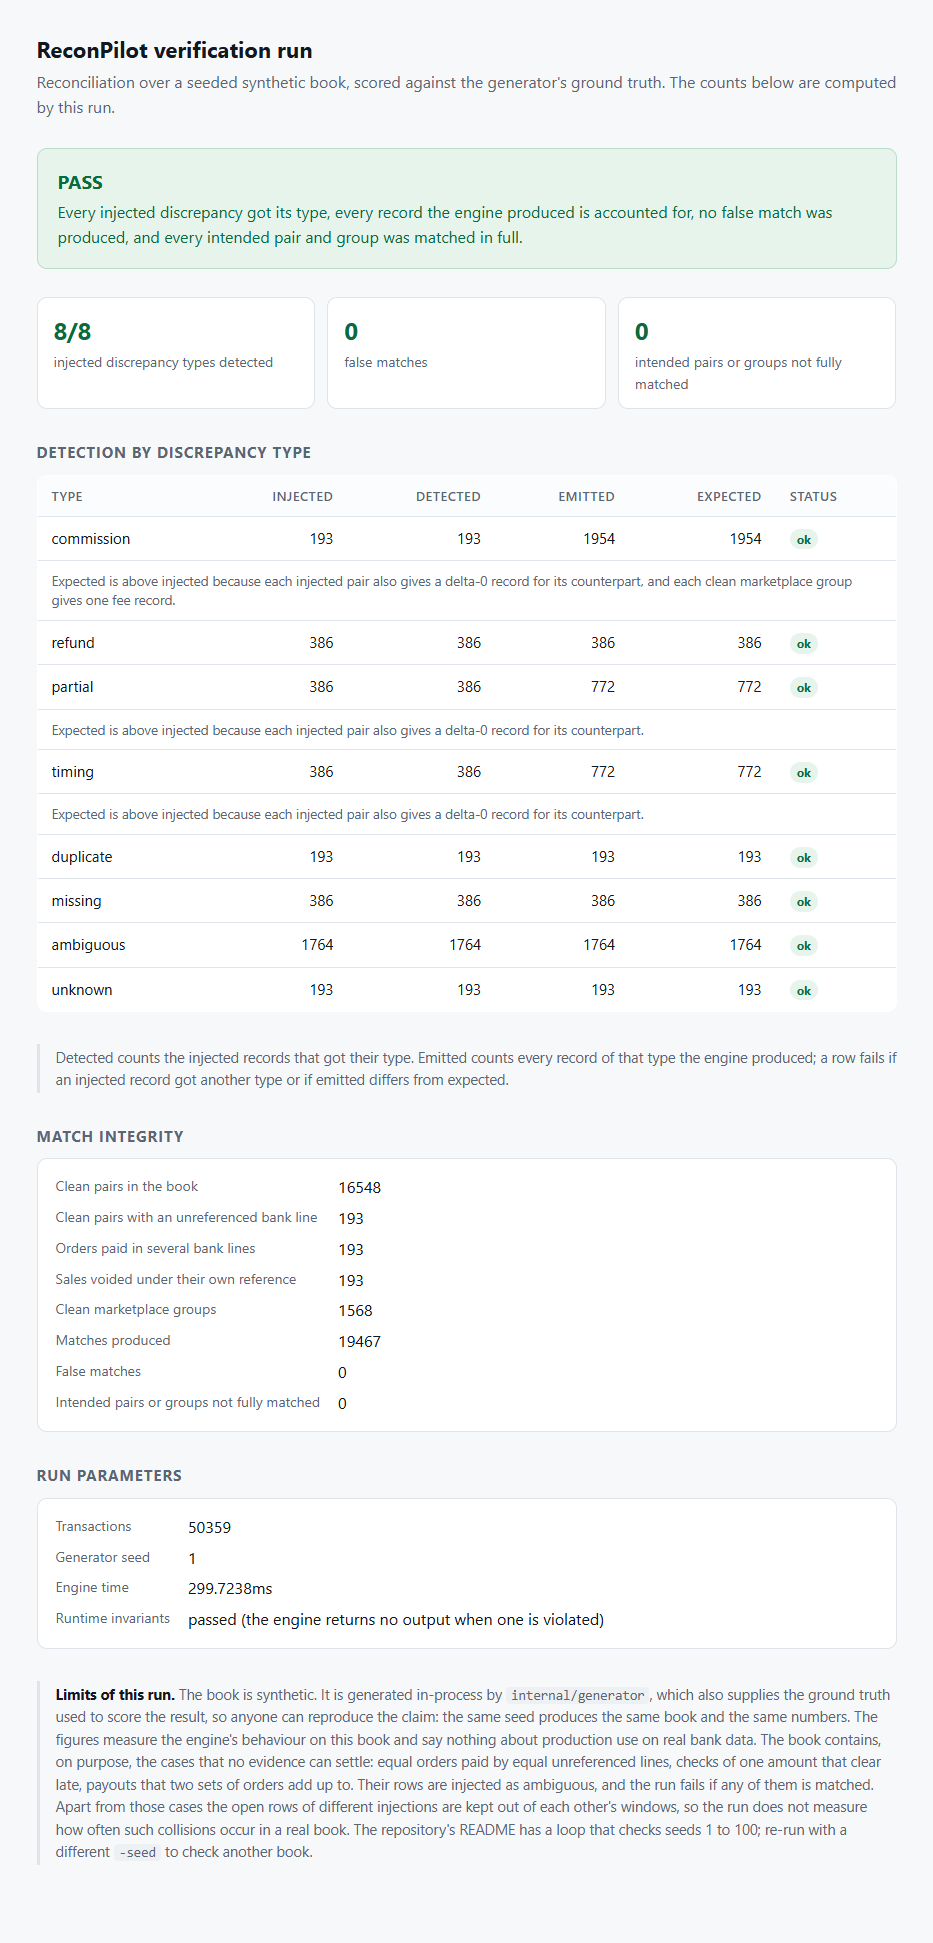
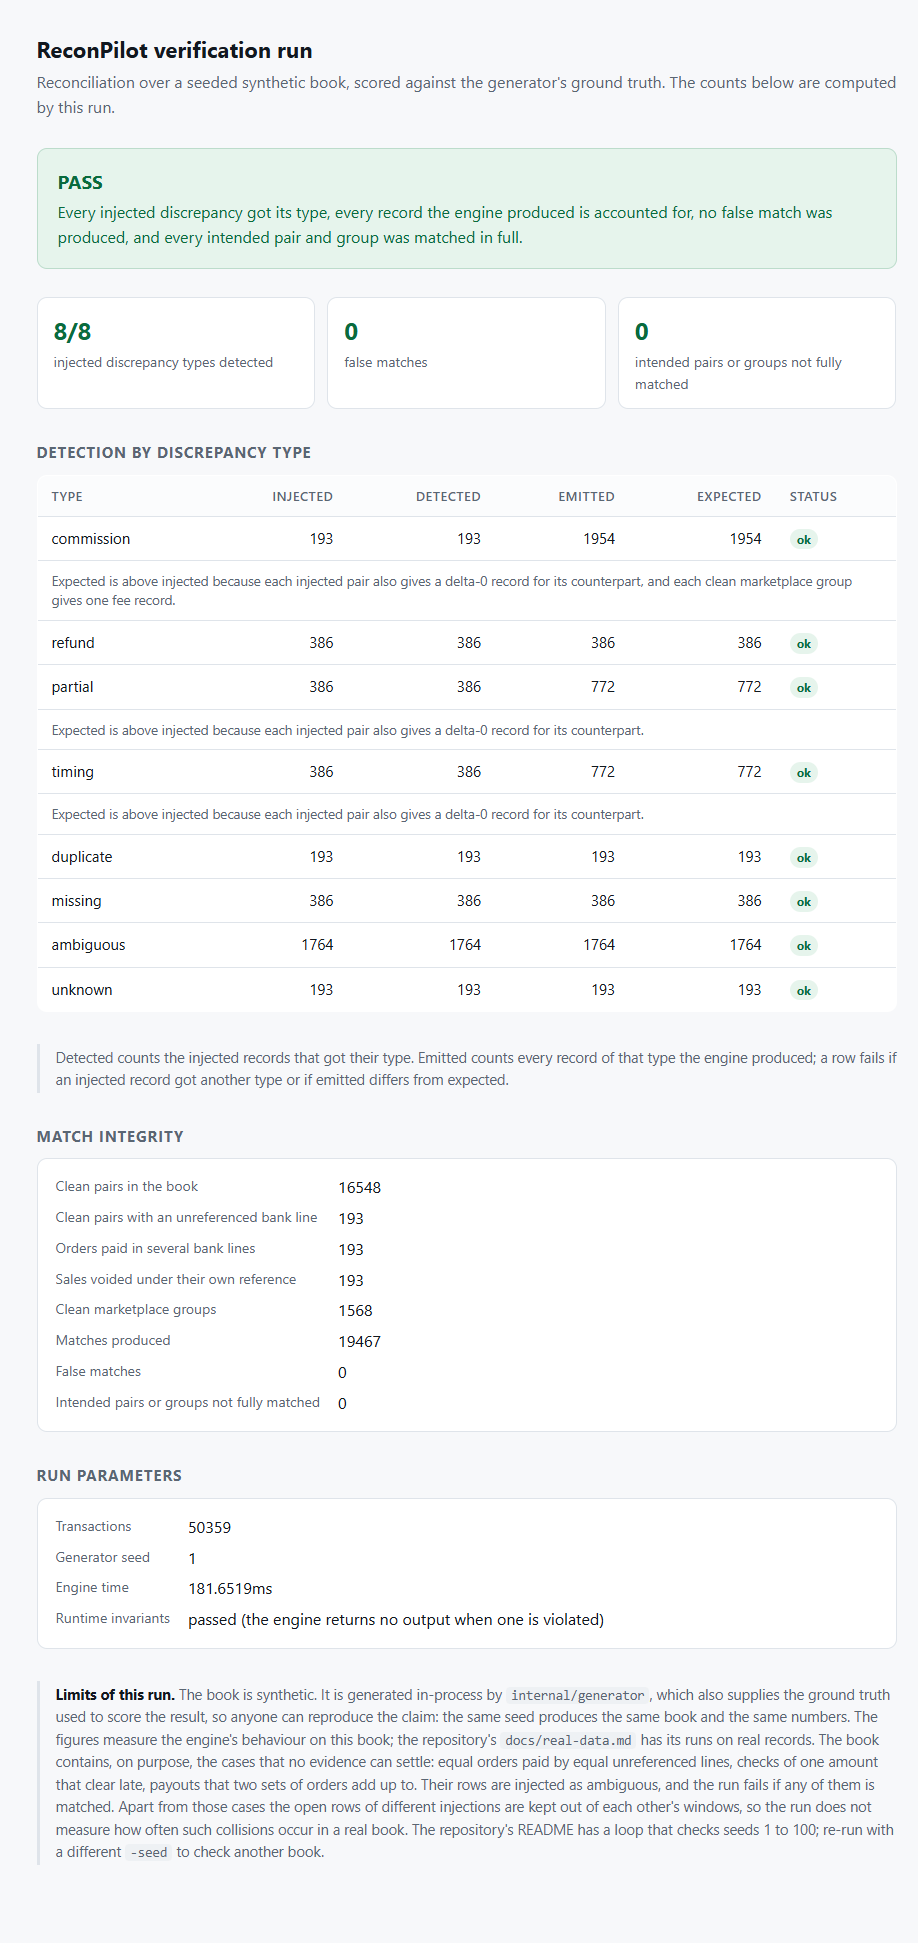
Point the caveats at the real-data runs

diff --git a/README.md b/README.md
@@ -115,9 +115,9 @@ for s in $(seq 1 100); do go run ./cmd/benchmark -n 20000 -seed "$s" > /dev/null
 ### Benchmark boundary
 
 The data is synthetic and the discrepancies are injected on purpose. The generator and the injection code
-are in this repository (`internal/generator`). The benchmark measures how the engine behaves on that data; it
-says nothing about production performance on customer data. Every produced match is checked member by
-member against the generator's intended pairing, and the run above found 0 false matches.
+are in this repository (`internal/generator`). The benchmark measures how the engine behaves on that data;
+its runs on real records are under "Real data" below. Every produced match is checked member by member
+against the generator's intended pairing, and the run above found 0 false matches.
 
 The generator also builds the hard cases on purpose, each in a fixed share of the book:
 
@@ -140,9 +140,8 @@ book.
 The engine has also been run on five public datasets that carry their own ground truth: a bank's
 ledger against its statement (BenchRec), marketplace orders against their payments (Olist), a county's
 checks against their clearance (Fulton County, Georgia), federal accruals against their payments
-(Brazil) and a city's invoices against the checks that paid them (Baltimore). None of them is a
-merchant's PSP, bank and marketplace books together. Precision is the share of the engine's matches
-that the dataset's own links confirm; the last column is the engine before the rules in
+(Brazil) and a city's invoices against the checks that paid them (Baltimore). Precision is the share
+of the engine's matches that the dataset's own links confirm; the last column is the engine before the rules in
 [ADR 0006](docs/adr/0006-match-only-on-sufficient-evidence.md), on the same files.
 
 | Data | Matches | False | Precision | Before |

diff --git a/docs/case-study.md b/docs/case-study.md
@@ -64,8 +64,8 @@ HTTP handlers only call the existing store and engine.
 ## Benchmark scope
 
 The benchmark data is synthetic and the discrepancies are injected on purpose. The generator
-lives in the same repository, and the run is seeded and reproducible. There is no production use
-on real customer data behind it. What one command does show is that the engine detects what it
+lives in the same repository, and the run is seeded and reproducible. What one command shows is
+that the engine detects what it
 says it detects, produces no false matches on the generated ground truth, misses no intended
 clean pairing, and refuses to return a result if an input record is unplaced or a
 transaction-level discrepancy delta breaks its type's rules.
@@ -120,9 +120,8 @@ hem 20.000 işlemde geçer.
 ### Benchmark sınırı
 
 Veri sentetiktir, uyuşmazlıklar bilerek enjekte edilmiştir. Üretici kod aynı depodadır ve
-çalıştırma seed'li olduğu için birebir tekrarlanabilir. Arkasında gerçek müşteri verisiyle üretim
-kullanımı yok. Gösterdiği şey motorun davranışıdır ve bunu tek komutla kendiniz
-doğrulayabilirsiniz.
+çalıştırma seed'li olduğu için birebir tekrarlanabilir. Gösterdiği şey motorun davranışıdır ve
+bunu tek komutla kendiniz doğrulayabilirsiniz.
 
 Üreticinin ilk sürümü her açık satırı diğerlerinin penceresinden uzak tutuyordu ve benchmark
 iki satırın aynı anda uyduğu durumu hiç görmedi. Kamuya açık gerçek veri gösterdi: bir

diff --git a/docs/real-data.md b/docs/real-data.md
@@ -2,8 +2,7 @@
 
 The benchmark in the README is synthetic. To see how the engine behaves on books it was not built for,
 it was run on five public datasets that carry their own ground truth: which rows the institution
-linked. None of them is a merchant's PSP report, bank statement and marketplace payouts together; no
-such public dataset was found. None of the data is in this repository.
+linked. None of the data is in this repository.
 
 ## How the numbers are scored
 
@@ -133,6 +132,7 @@ of reach, and another set of the same supplier's invoices adds up to the check t
 
 ## What these runs do not show
 
-- They are not customer data. Real merchant books need a pilot with a merchant or an accountant.
+- The sets come from a bank, a marketplace and public bodies. PSP settlement files and Turkish bank
+  statement formats are not among them.
 - Truth comes from the publishers. BenchRec states its own label error rate; the others state none.
 - The converters are not in this repository; the mappings above are the whole of what they do.
